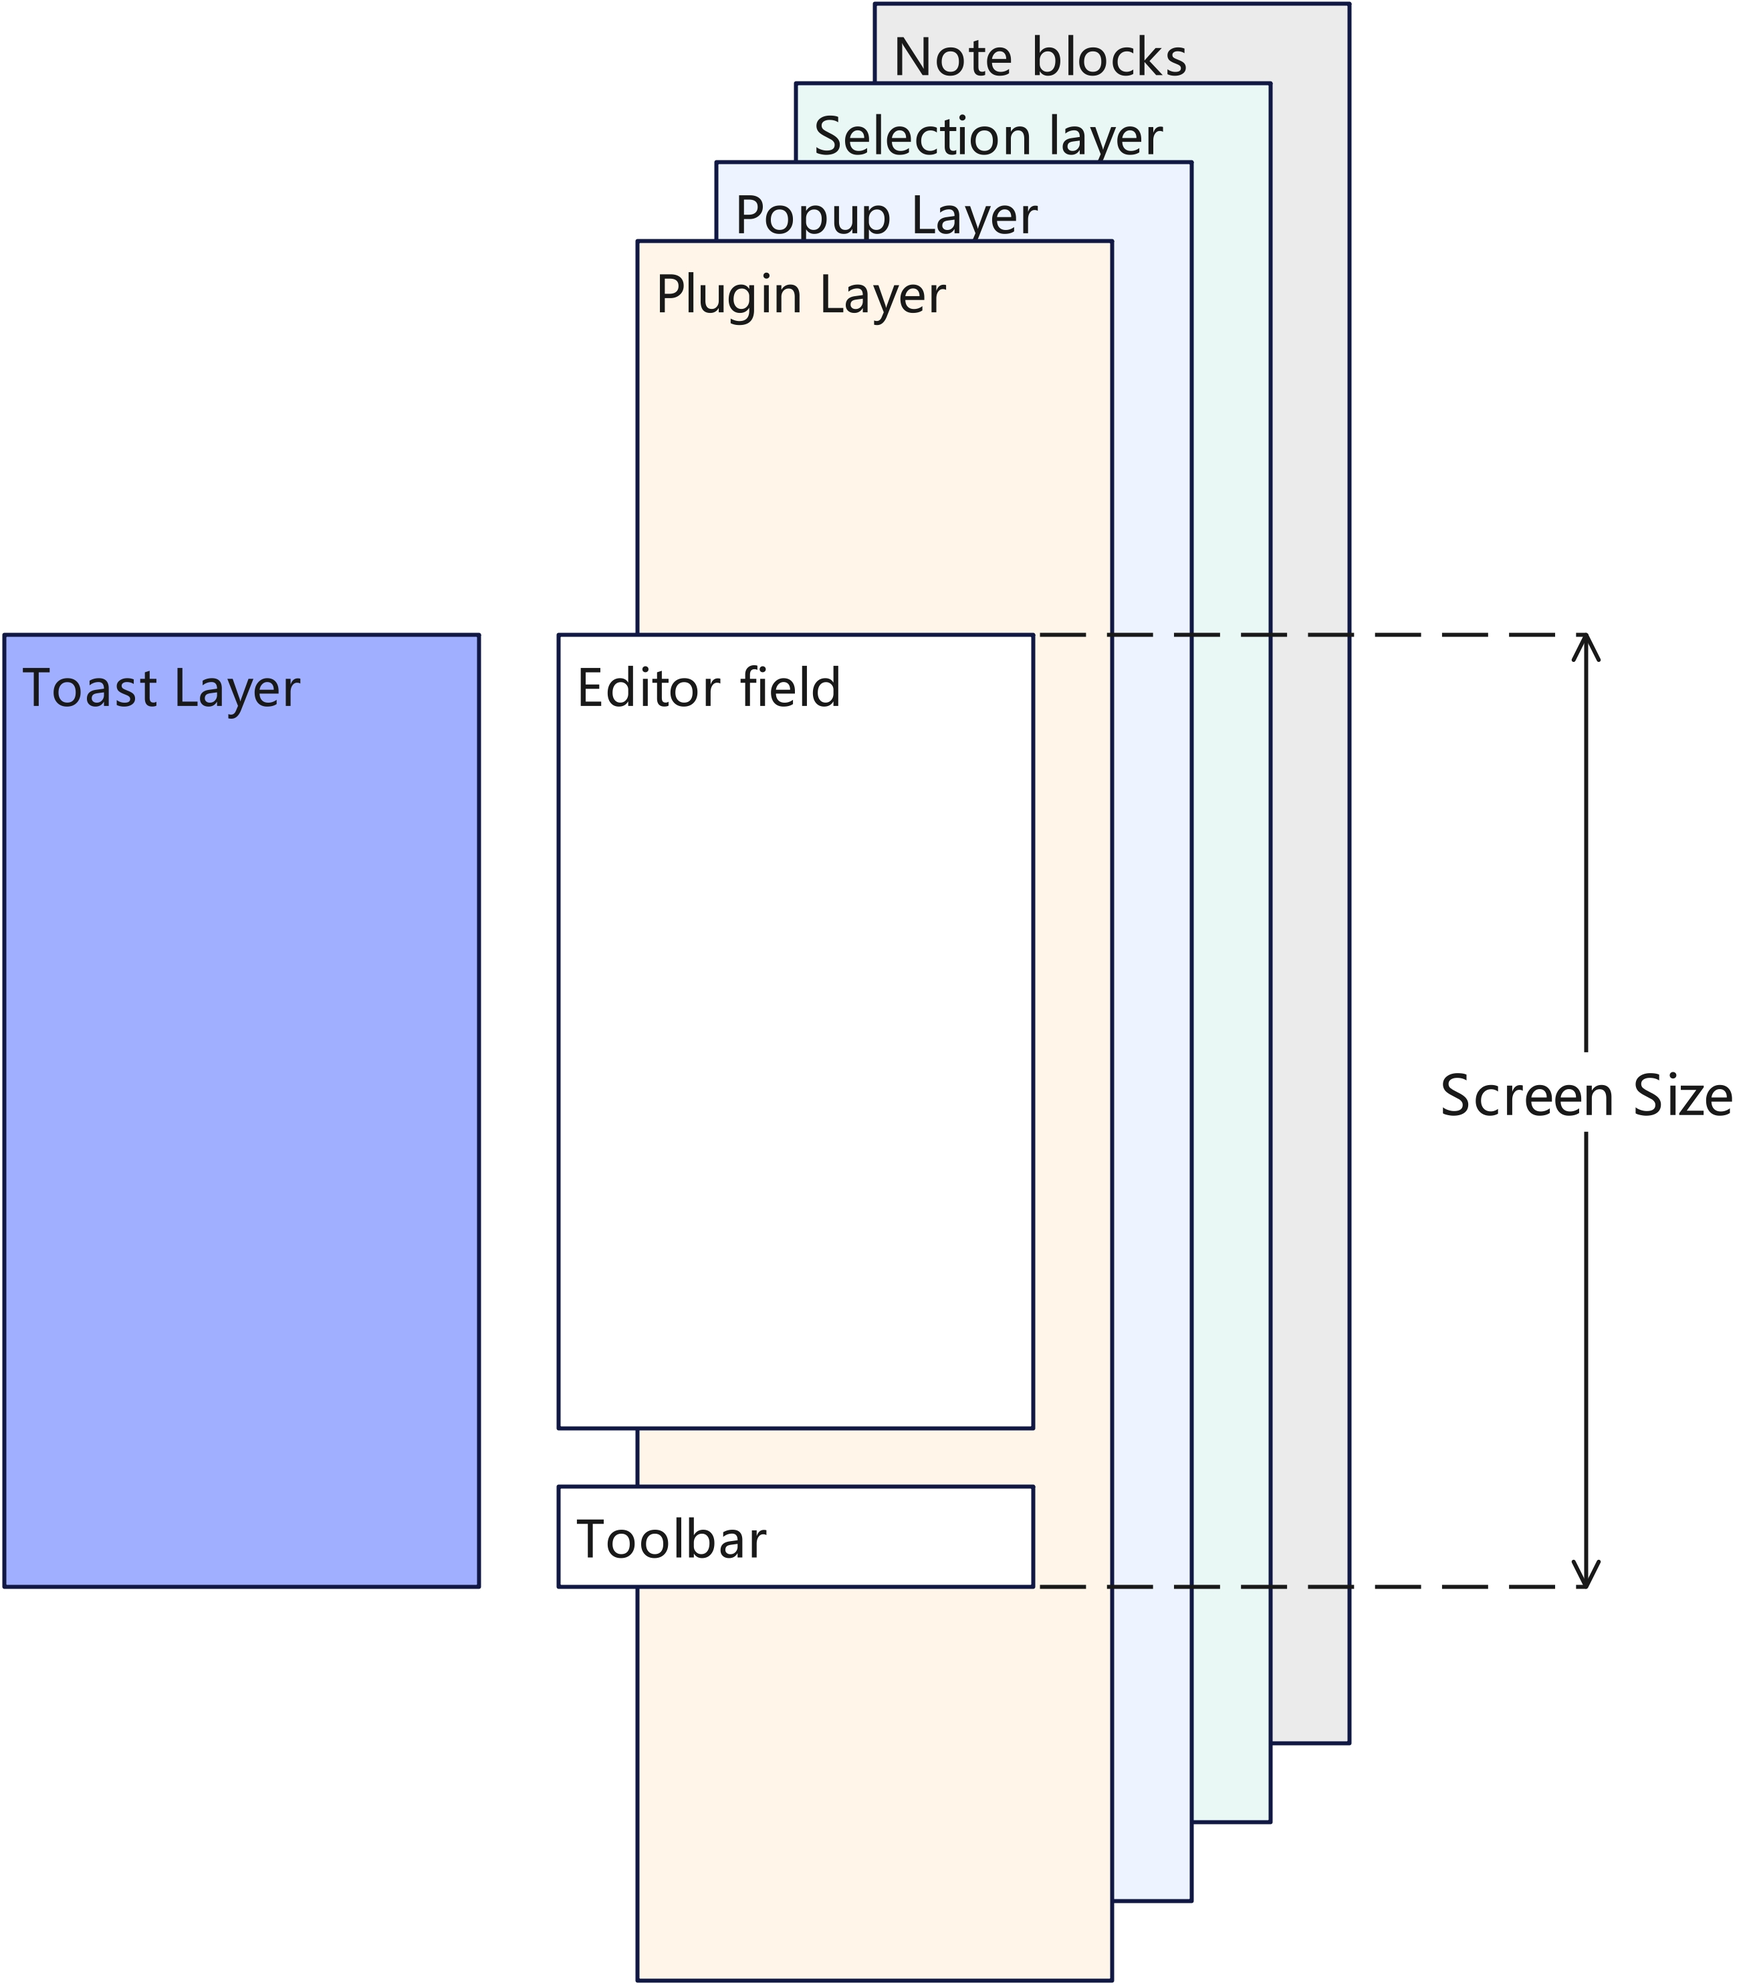
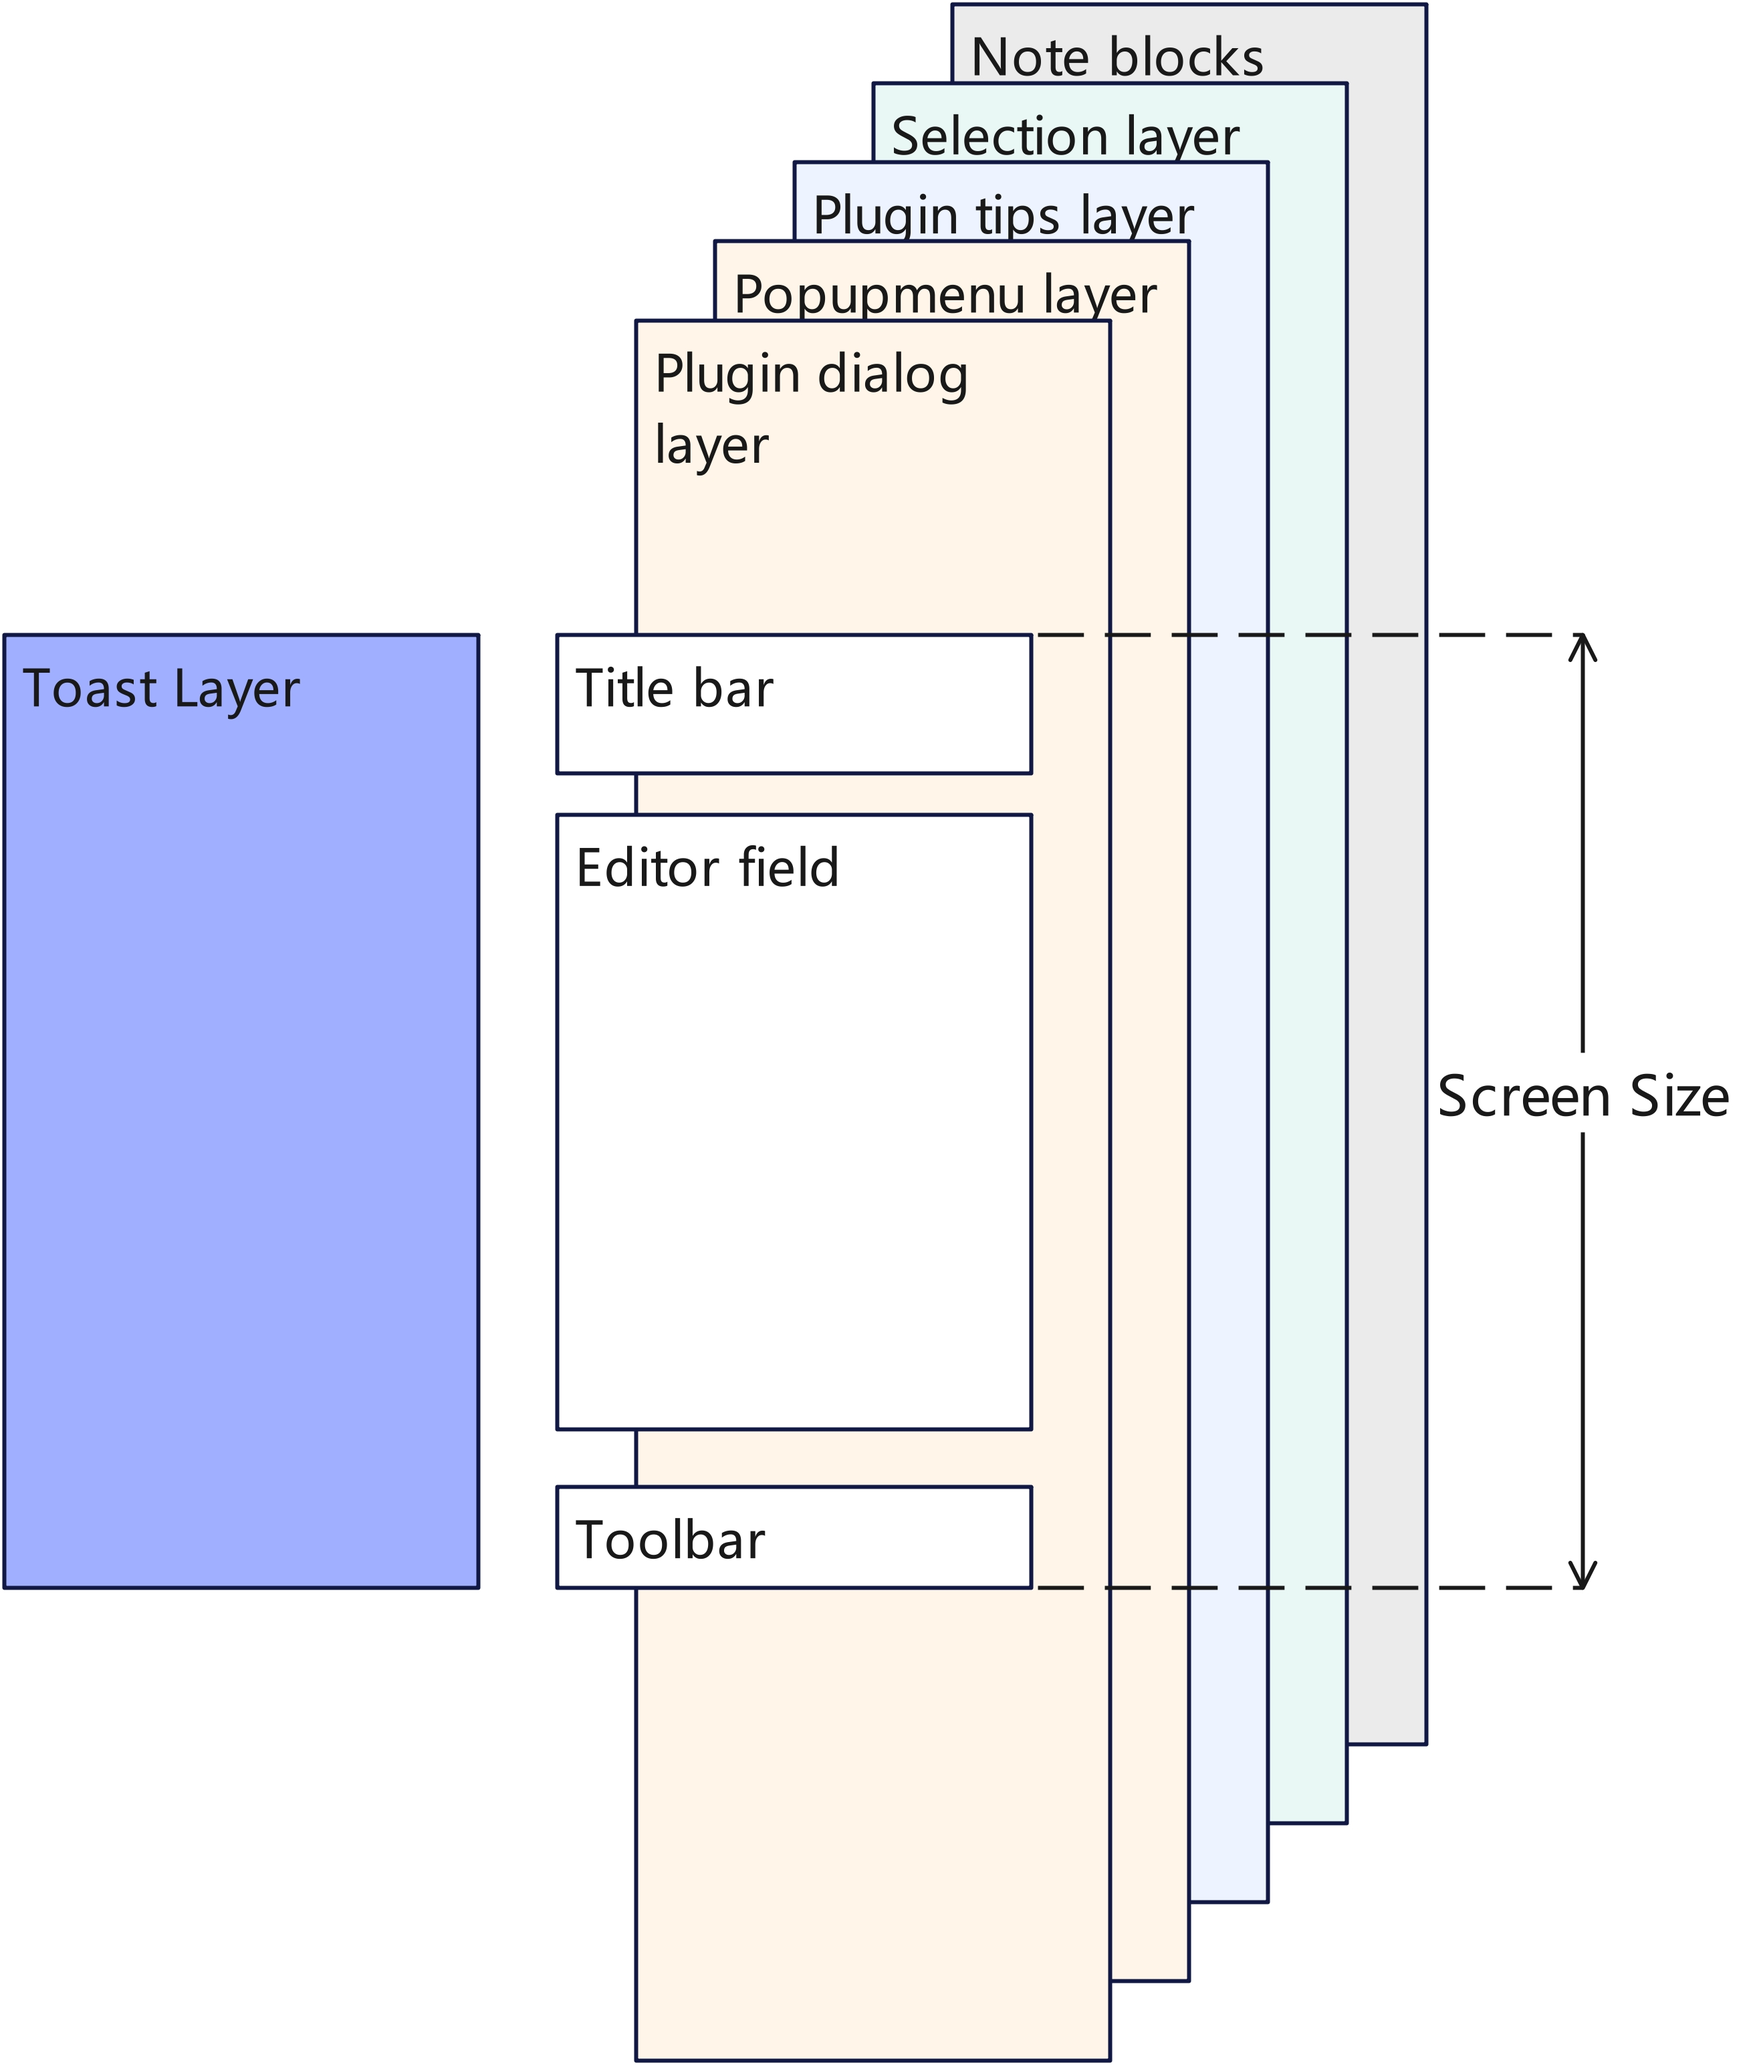
Add plugin dialog layer, and display AI plugin dialog in this layer

diff --git a/lib/mindeditor/view/floating_view.dart b/lib/mindeditor/view/floating_view.dart
@@ -2,23 +2,27 @@ import 'package:flutter/material.dart';
 
 class FloatingViewManager {
   late Widget _selectionLayer;
-  late Widget _extraLayer;
+  late Widget _pluginTipsLayer;
   late Widget _popupMenuLayer;
+  late Widget _pluginDialogLayer;
   final _selectionKey = GlobalKey<_FloatingStackViewState>();
-  final _extraKey = GlobalKey<_FloatingStackViewState>();
+  final _pluginTipsKey = GlobalKey<_FloatingStackViewState>();
   final _popupMenuKey = GlobalKey<_FloatingStackViewState>();
+  final _pluginDialogKey = GlobalKey<_FloatingStackViewState>();
 
   FloatingViewManager() {
     _selectionLayer = _buildSelectionLayer();
-    _extraLayer = _buildExtraLayer();
+    _pluginTipsLayer = _buildExtraLayer();
     _popupMenuLayer = _buildPopupMenuLayer();
+    _pluginDialogLayer = _buildPluginDialogLayer();
   }
 
   List<Widget> getWidgetsForEditor() {
     return [
       _selectionLayer,
       _popupMenuLayer,
-      _extraLayer,
+      _pluginTipsLayer,
+      _pluginDialogLayer,
     ];
   }
   
@@ -30,10 +34,10 @@ class FloatingViewManager {
         clearBlockTips();
       },
     );
-    _extraKey.currentState?.addLayer(tipsWidget);
+    _pluginTipsKey.currentState?.addLayer(tipsWidget);
   }
   void clearBlockTips() {
-    _extraKey.currentState?.clearLayer();
+    _pluginTipsKey.currentState?.clearLayer();
   }
   
   void addCursorHandle(Widget handle) {
@@ -69,6 +73,13 @@ class FloatingViewManager {
     _popupMenuKey.currentState?.clearLayer();
   }
 
+  void showPluginDialog(Widget dialog) {
+    _pluginDialogKey.currentState?.addLayer(dialog);
+  }
+  void clearPluginDialog() {
+    _pluginDialogKey.currentState?.clearLayer();
+  }
+
   Widget _buildSelectionLayer() {
     return _FloatingStackView(
       key: _selectionKey,
@@ -76,12 +87,17 @@ class FloatingViewManager {
   }
   Widget _buildExtraLayer() {
     return _FloatingStackView(
-      key: _extraKey,
+      key: _pluginTipsKey,
     );
   }
   Widget _buildPopupMenuLayer() {
     return _FloatingStackView(
       key: _popupMenuKey,
+    );
+  }
+  Widget _buildPluginDialogLayer() {
+    return _FloatingStackView(
+      key: _pluginDialogKey,
     );
   }
 }

diff --git a/lib/plugin/plugin_manager.dart b/lib/plugin/plugin_manager.dart
@@ -17,8 +17,6 @@ List<PluginInstance> _plugins = [
 
 class PluginManager {
   List<ToolbarInformation> toolbarInfo = [];
-  BuildContext? _context;
-  OverlayEntry? _overlayEntry;
   final List<SettingData> _pluginSupportedSettings = [];
   final Map<PluginProxy, PluginRegisterInformation> _pluginInstances = {};
   final controller = Controller();
@@ -33,10 +31,6 @@ class PluginManager {
     for(var plugin in _plugins) {
       plugin.start();
     }
-  }
-
-  void updateContext(BuildContext context) {
-    _context = context;
   }
 
   /// Register plugin
@@ -124,19 +118,14 @@ class PluginManager {
   }
 
   void closeDialog() {
-    _overlayEntry?.remove();
-    _overlayEntry = null;
+    CallbackRegistry.getFloatingViewManager()?.clearPluginDialog();
   }
   void showDialog(String title, Widget subChild) {
-    if(_context == null) return;
-
-    if(_overlayEntry != null) {
-      closeDialog();
-    }
+    closeDialog();
     CallbackRegistry.hideKeyboard();
-    final isSmallView = controller.environment.isSmallView(_context!);
-    _overlayEntry = OverlayEntry(
-      builder: (context) {
+    final widget = LayoutBuilder(
+      builder: (context, constraints) {
+        final isSmallView = controller.environment.isSmallView(context);
         double width = 300;
         double height = 300;
         if(isSmallView) {
@@ -185,7 +174,7 @@ class PluginManager {
         return container;
       }
     );
-    Overlay.of(_context!).insert(_overlayEntry!);
+    CallbackRegistry.getFloatingViewManager()?.showPluginDialog(widget);
   }
 
   List<SettingData> getPluginSupportedSettings() {

diff --git a/lib/mindeditor/view/mind_edit_field.dart b/lib/mindeditor/view/mind_edit_field.dart
@@ -73,7 +73,6 @@ class MindEditFieldState extends State<MindEditField> implements TextInputClient
   @override
   Widget build(BuildContext context) {
     MyLogger.info('MindEditFieldState: build block list, _hasFocus=$_hasFocus');
-    _updateContext(context);
     WidgetsBinding.instance.addPostFrameCallback((_) {
       final render = context.findRenderObject()! as RenderBox;
       _currentSize = render.localToGlobal(Offset.zero) & render.size;
@@ -684,10 +683,6 @@ class MindEditFieldState extends State<MindEditField> implements TextInputClient
   }
   void _updateLastEditingValue(TextEditingValue newValue) {
     _lastEditingValue = newValue;
-  }
-  void _updateContext(BuildContext context) {
-    widget.controller.selectionController.updateContext(context);
-    widget.controller.pluginManager.updateContext(context);
   }
   void _deleteSelectionOrCharacter() {
     if(!widget.controller.selectionController.isCollapsed()) {

diff --git a/lib/mindeditor/view/selection_handle_layer.dart b/lib/mindeditor/view/selection_handle_layer.dart
@@ -30,8 +30,6 @@ class SelectionHandleLayer {
     _hideTextSelectionHandles(clearLayout: false); // Don't clear layout here, because it will cause a setState() call
   }
 
-  void updateContext(BuildContext context) {
-  }
   void updateBaseHandleOffset(Offset? offset) {
     if(offset == null) return;
     final deltaOffset = _convertToDragOffset(offset);

diff --git a/lib/mindeditor/controller/selection_controller.dart b/lib/mindeditor/controller/selection_controller.dart
@@ -268,9 +268,6 @@ class SelectionController {
   }
 
   // Setters
-  void updateContext(BuildContext context) {
-    _selectionHandleLayer.updateContext(context);
-  }
   void updateBaseHandlePoint(Offset offset) {
     _selectionHandleLayer.updateBaseHandleOffset(offset);
   }

diff --git a/documentation/layers.md b/documentation/layers.md
@@ -6,10 +6,13 @@ Generally speaking, the application has a top most app layer, and then editor la
 ![Image for layers](./assets/layers.jpg "Layers")
 
 # App Layers
-Currently only a toast layer is used, to display messages to user.
+Currently only a toast layer is used, to display instant messages to user.
 
 # Editor Layers
-There are 3 layers related to the editor.
+There are 4 layers related to the editor.
 1. Selection layer: to display the selection area(blue semitransparent rectangle) and handles(small blue rectangles for user to drag, only in mobile mode).
-2. Popup menu layer: to display the popup menu, for user to select all, copy, cut, and paste.
-3. Plugin tips layer: to display the plugin tips. Currently using for AI hints.
+4. Plugin tips layer: to display the plugin tips. Currently using for AI hints(currently in every block's extra area).
+3. Popup menu layer: to display the popup menu, for user to select all, copy, cut, and paste.
+4. Plugin dialog layer: to display the plugin dialog.
+
+So the selection rectangle and handles are in the lowest layer, might be covered by plugin tips. And plugin tips might be covered by popup menu. Plugin dialog is on the top of everything.
